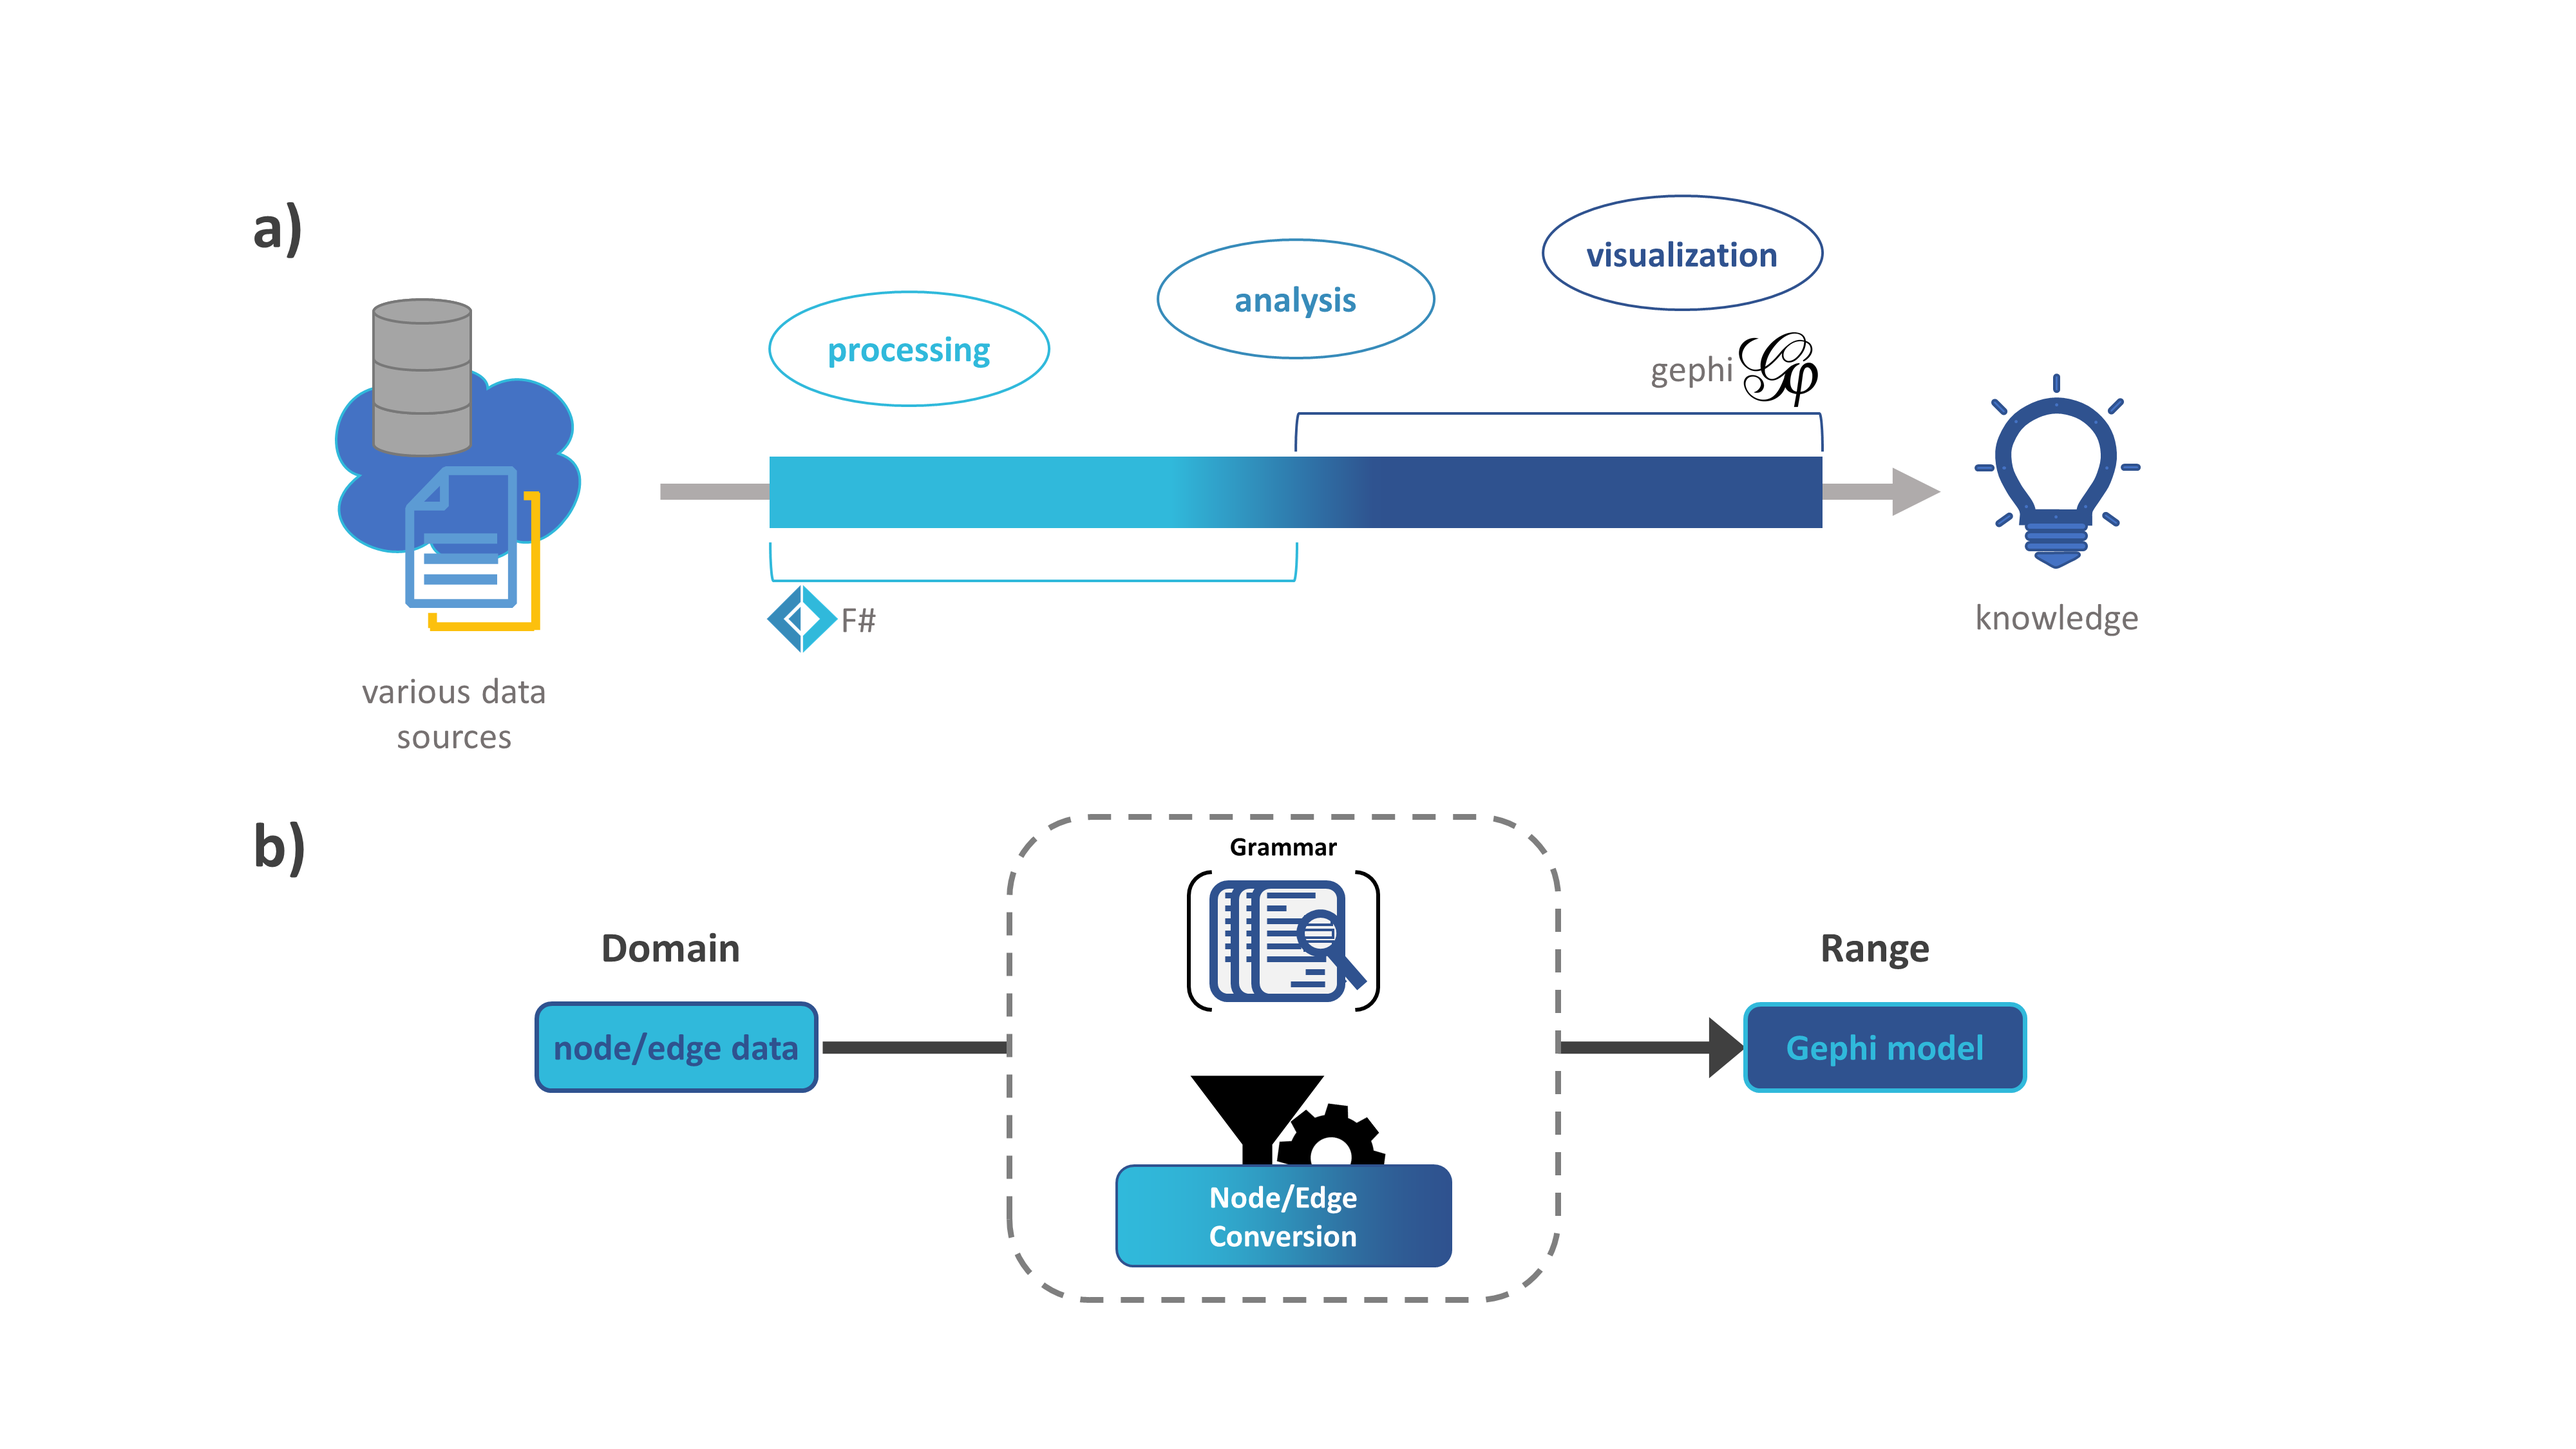
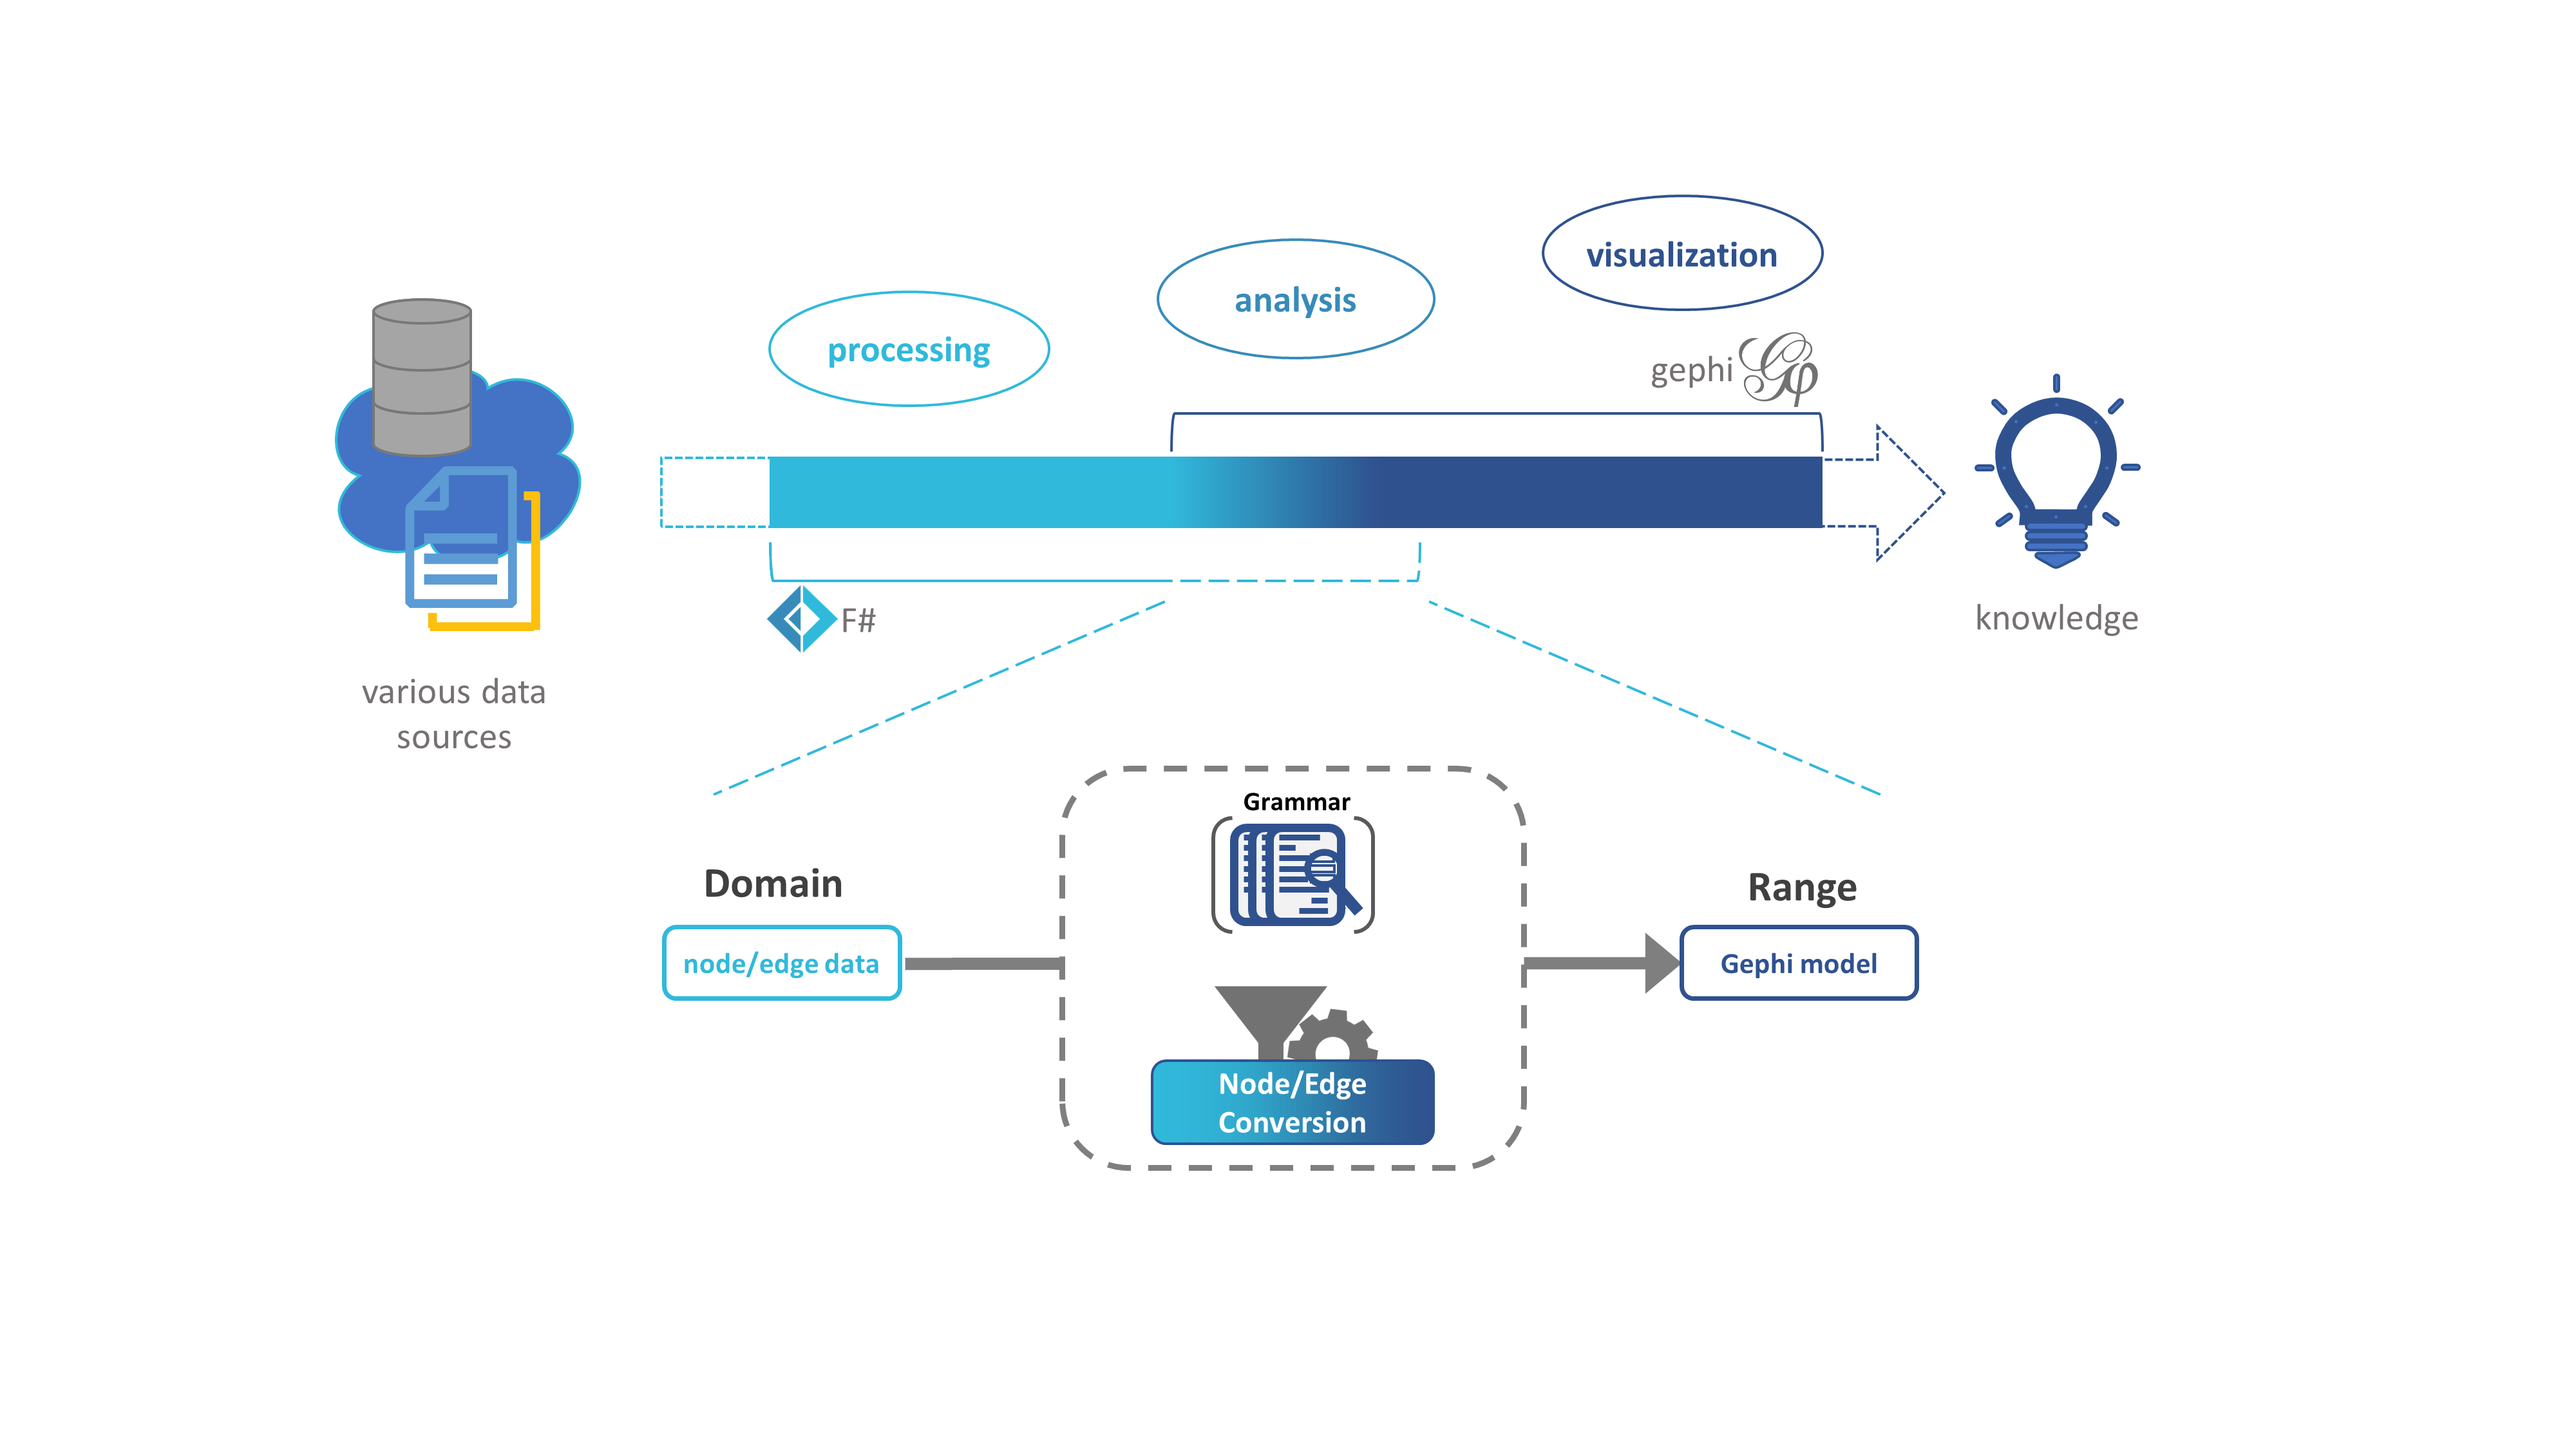
Update paper figure, slightly adjust text

diff --git a/paper/paper.md b/paper/paper.md
@@ -21,7 +21,7 @@ date: 28 January 2019
 bibliography: paper.bib
 ---
 
-# Statement of need
+# Summary
 
 Network science empowers researcher across different disciplines to study complex
 relationships between a huge number of elements and reveal the underling wiring
@@ -40,8 +40,6 @@ type save information-rich programming and domain driven explorative programming
 [@inforich-ddfp]. This enables data collection, processing and analysis
 tasks leveraging the flexibility of the programming environments.
 
-# Summary
-
 We created ``FSharpGephiStreamer`` to enable automated access to the ``Gephi`` network and 
 visualization models directly from within the F# interactive programming environment. 
 The functional approach used for the implementation of ``FSharpGephiStreamer`` provides a 
@@ -55,5 +53,8 @@ software project. Hence, effectively improving the integration of ``Gephi`` into
 scale data analysis pipelines and increasing workflow reproducibility.
 
 ![WorkflowOverview](workflowOverview.png)
+
+**Figure 1**: Schematic overview of how F# and Gephi contribute to the network science workflow. 
+FSharpGephiStreamer acts as an merging interface at their overlap, mapping node/edge data to a gephi model.
 
 # References
